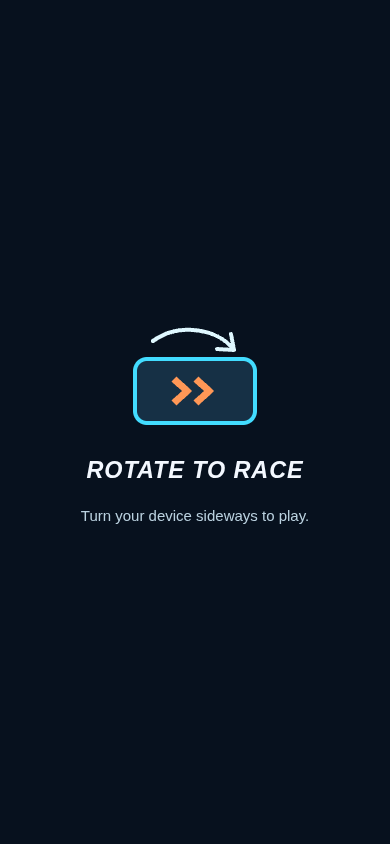
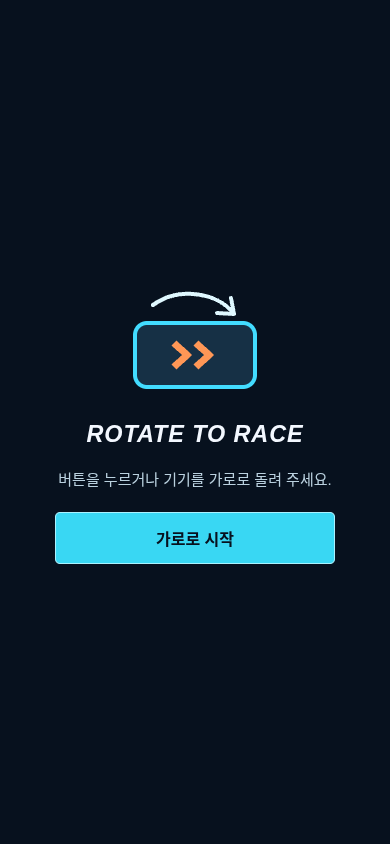
Add a portrait-to-landscape button with fullscreen and manual fallback

Changed region(s): [[0.1231, 0.3389, 0.8615, 0.6777]]

diff --git a/new/web/coast-rush-shell.html b/new/web/coast-rush-shell.html
@@ -17,6 +17,9 @@ body { color: #f3f8ff; background: #07111e; overflow: hidden; touch-action: none
 #landscape-guide { display: none; position: fixed; inset: 0; z-index: 4; background: #07111e; flex-direction: column; align-items: center; justify-content: center; gap: 20px; text-align: center; padding: 24px; box-sizing: border-box; }
 #landscape-guide svg { width: 168px; height: 120px; }
 #landscape-guide h2 { margin: 0; font-size: clamp(22px,6vw,30px); font-style: italic; letter-spacing: .04em; }
+#landscape-start { min-height: 52px; width: min(280px,80vw); border: 1px solid #a9f2ff; border-radius: 5px; background: #39d7f3; color: #07111e; font: 800 16px system-ui,sans-serif; cursor: pointer; }
+#landscape-start:focus-visible { outline: 3px solid #ff9756; outline-offset: 5px; }
+#landscape-start:disabled { opacity: .65; cursor: wait; }
 #landscape-guide p { margin: 0; max-width: 290px; color: #bad1df; font-size: 15px; line-height: 1.6; }
 @media (orientation: portrait) { #landscape-guide { display: flex; } }
 #status-splash { position: absolute; inset: 0; width: 100%; height: 100%; object-fit: contain; }
@@ -61,12 +64,16 @@ noscript { position: fixed; z-index: 3; bottom: 20px; left: 20px; right: 20px; p
 		<div id="landscape-guide" role="status" aria-label="Landscape orientation required">
 			<svg viewBox="0 0 168 120" aria-hidden="true"><rect x="24" y="42" width="120" height="64" rx="12" fill="#163045" stroke="#42dcff" stroke-width="4"/><path d="M63 62l13 12-13 12M85 62l13 12-13 12" fill="none" stroke="#ff9756" stroke-width="7"/><path d="M42 24c26-19 65-12 80 8M120 17l3 16-17-1" fill="none" stroke="#dff8ff" stroke-width="4" stroke-linecap="round" stroke-linejoin="round"/></svg>
 			<h2>ROTATE TO RACE</h2>
-			<p>Turn your device sideways to play.</p>
+			<p id="landscape-status" lang="ko" aria-live="polite">버튼을 누르거나 기기를 가로로 돌려 주세요.</p>
+			<button id="landscape-start" type="button" lang="ko" aria-describedby="landscape-status">가로로 시작</button>
 		</div>
 		<script>
 // Keep the active tour paused while the landscape-only layout is covered.
 (function () {
 	const portrait = window.matchMedia('(orientation: portrait)');
+	const button = document.getElementById('landscape-start');
+	const message = document.getElementById('landscape-status');
+	const prompt = message.textContent;
 	let observer = null;
 	window.initialsjObserveOrientation = function (callback) {
 		observer = callback;
@@ -74,6 +81,57 @@ noscript { position: fixed; z-index: 3; bottom: 20px; left: 20px; right: 20px; p
 	};
 	portrait.addEventListener('change', function (event) {
 		if (observer) observer(event.matches);
+		if (!event.matches || !button.disabled) message.textContent = prompt;
+	});
+	function waitForLandscape() {
+		if (!portrait.matches) return Promise.resolve(true);
+		return new Promise(function (resolve) {
+			function changed(event) { if (!event.matches) finish(true); }
+			function finish(ok) {
+				clearTimeout(timeout);
+				portrait.removeEventListener('change', changed);
+				resolve(ok);
+			}
+			const timeout = setTimeout(function () { finish(false); }, 2000);
+			portrait.addEventListener('change', changed);
+		});
+	}
+	button.addEventListener('click', async function (event) {
+		event.preventDefault();
+		event.stopPropagation();
+		if (button.disabled) return;
+		button.disabled = true;
+		button.textContent = '전환 중…';
+		message.textContent = '가로 화면으로 전환하고 있어요.';
+		let enteredFullscreen = false;
+		try {
+			const root = document.documentElement;
+			const request = root.requestFullscreen || root.webkitRequestFullscreen;
+			if (!document.fullscreenElement && !document.webkitFullscreenElement && request) {
+				try {
+					await request.call(root, {navigationUI: 'hide'});
+					enteredFullscreen = !!(document.fullscreenElement || document.webkitFullscreenElement);
+				} catch (_) { /* A standalone browser may still support orientation lock. */ }
+			}
+			let locked = false;
+			if (screen.orientation && typeof screen.orientation.lock === 'function') {
+				try { await screen.orientation.lock('landscape'); locked = true; } catch (_) { /* Manual rotation remains available. */ }
+			}
+			const landscape = !portrait.matches || (locked && await waitForLandscape());
+			if (landscape) {
+				message.textContent = prompt;
+			} else {
+				// Restore browser controls if fullscreen did not achieve rotation.
+				const exit = document.exitFullscreen || document.webkitExitFullscreen;
+				if (enteredFullscreen && exit) { try { await exit.call(document); } catch (_) {} }
+				message.textContent = '자동 전환을 사용할 수 없어요. 기기를 직접 가로로 돌려 주세요.';
+			}
+		} catch (_) {
+			message.textContent = '기기를 직접 가로로 돌려 주세요.';
+		} finally {
+			button.disabled = false;
+			button.textContent = '가로로 시작';
+		}
 	});
 }());
 		</script>

diff --git a/new/docs/LOADING.md b/new/docs/LOADING.md
@@ -6,6 +6,7 @@ The first page paint shows mature mobile-arcade key art with low, wide vehicle p
 - `project.godot`: uses the same artwork for the engine boot splash and a custom chevron icon for exported browser icons.
 - `web/coast-rush-shell.html`: custom web export shell based on Godot's MIT-licensed template. The artwork appears before engine JS downloads. A real download progress bar changes to “Preparing your ride” when downloads finish, and the overlay is removed when startup succeeds. The image uses `object-fit: contain` to keep the title and cars visible across landscape aspect ratios. The art URL has a new version query so the previous realistic image is not reused from browser cache.
 - Failed engine initialization retains a readable notice. A listener limited to startup also handles an exhausted WASM download rejection that can escape the runtime's `startGame` promise; it is removed after successful startup or failure.
+- The portrait guide has a user-initiated landscape button. It requests fullscreen before orientation lock, also tries orientation when fullscreen is unavailable/denied, and falls back to manual-rotation guidance if automatic rotation is unsupported. Failed attempts restore browser controls when this button entered fullscreen. `tests/orientation_button_review.cjs` covers supported, missing, rejected-lock and denied-fullscreen APIs using browser API emulation; this is not a physical-device capability test.
 - Landscape play only: portrait shows “Rotate to race” over the loading/game canvas. A media-query callback pauses the Godot countdown/race and clears touch holds; returning to landscape waits for explicit resume. Native mobile orientation is sensor landscape.
 - The in-game models share the new signatures: Nimori tapered dual-bar popup pods and divided grille; Veltrix chevron lamps and split rear wing; Ironvale two round lamps with eyebrow strips, offset paint stripes, divided grille and paired horizontal taillights.
 - Reduced-motion preference disables the indeterminate progress animation. Status/progress labels and a screen-reader title are provided.

diff --git a/new/README.md b/new/README.md
@@ -18,7 +18,7 @@ OutRun 2006을 참고한 **3D 오픈 로드 아케이드 투어**입니다. 한 
 
 ![차량 선택 화면](docs/garage/select-0.png)
 
-가로 화면으로 플레이합니다. 세로에서는 가로 회전 안내가 표시되며, 주행·카운트다운 중 세로로 돌리면 시간이 멈춥니다. 가로로 돌아온 뒤 직접 재개합니다.
+가로 화면으로 플레이합니다. 세로에서는 **가로로 시작** 버튼으로 전체화면·가로 전환을 요청할 수 있습니다. 자동 전환이 지원되지 않으면 직접 기기를 돌리도록 안내합니다. 주행·카운트다운 중 세로로 돌리면 시간이 멈춥니다. 가로로 돌아온 뒤 직접 재개합니다.
 
 ## 조작
 
